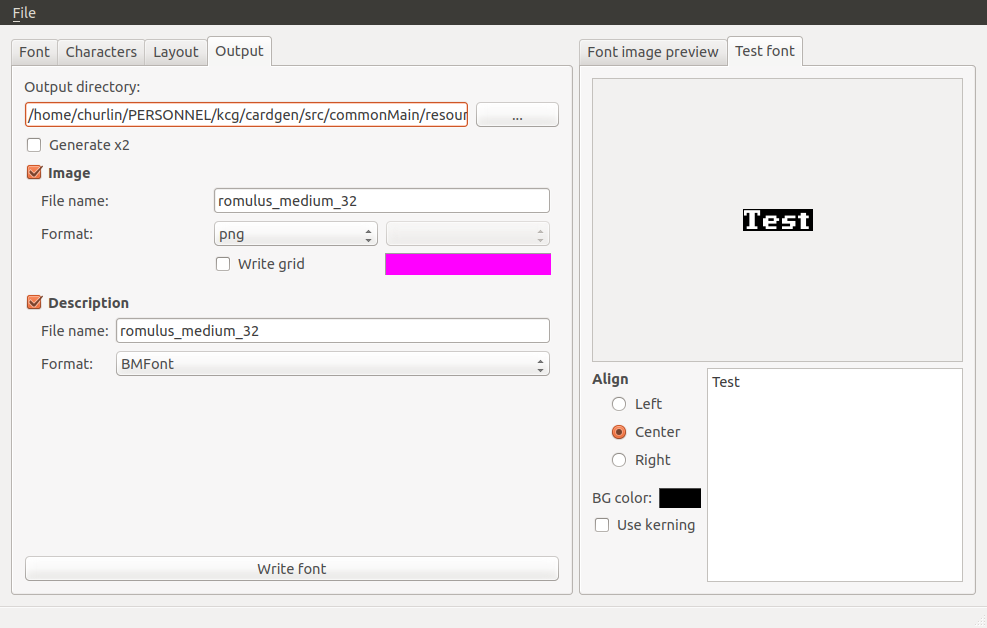
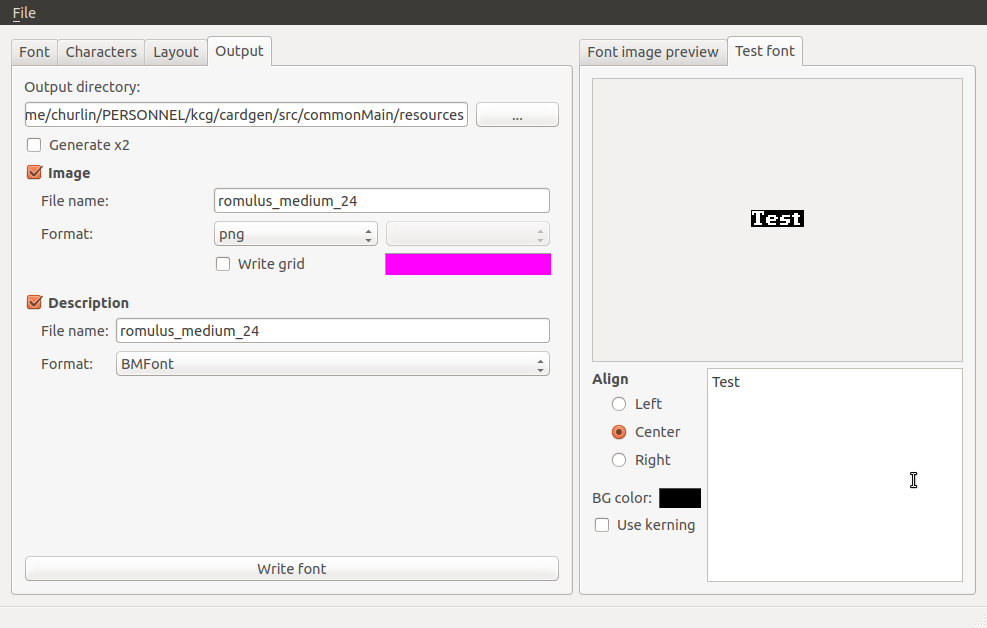
Change font size to 24

diff --git a/cardgen/src/commonMain/kotlin/card/card.kt b/cardgen/src/commonMain/kotlin/card/card.kt
@@ -29,26 +29,26 @@ fun Stage.putBorder(cdi: CardDrawingInput) {
     }
 }
 
-/** @return The tile's y */
+/** @return The tile's bottom y */
 fun Stage.putCreatureTile(cdi: CardDrawingInput): Double {
     val imgx = (width - (cdi.cbmp.width * creatureScale)) / 2;
     val imgxCenter = imgx + (cdi.cbmp.width / 2)
     val imgy = (height - (cdi.cbmp.height * creatureScale)) / 8;
     val imgyCenter = imgy + (cdi.cbmp.height / 2)
-    image(cdi.cbmp) {
+    val img = image(cdi.cbmp) {
         position(imgx, imgy)
         scale = creatureScale
         smoothing = false
     }
-    return imgy
+    return imgy + img.height
 }
 
 /**
- * @param tiley The creature's tile y
+ * @param tileboty The creature's tile bottom y
  * @return The text's y
  */
-fun Stage.putCreatureName(cdi: CardDrawingInput, tiley: Double): Double {
-    val texty = tiley + cdi.cbmp.height / 2 + (cdi.font.fontSize * 2)
+fun Stage.putCreatureName(cdi: CardDrawingInput, tileboty: Double): Double {
+    val texty = tileboty
     val w = width
 
     text(cdi.creature.name, font = cdi.font, textSize = cdi.font.fontSize.toDouble(), color = cdi.creature.team.color) {

diff --git a/cardgen/src/commonMain/kotlin/main.kt b/cardgen/src/commonMain/kotlin/main.kt
@@ -19,7 +19,7 @@ suspend fun main() = Korge(width = (24 * 9), height = ((24 * 4) + 12) * 3, bgcol
 	val tiles = Tile.loadFromDisk(dataJson, resourcesVfs["tiles.png"].readBitmap())
 	val creatures = Creature.loadFromDisk(dataJson, resourcesVfs["creatures.png"].readBitmap())
 
-	val font = resourcesVfs["romulus_medium_32.fnt"].readBitmapFont()
+	val font = resourcesVfs["romulus_medium_24.fnt"].readBitmapFont()
 
 	for ((i, p) in creatures.withIndex()) {
 		prepareCard(p.first, p.second, font, tiles)
